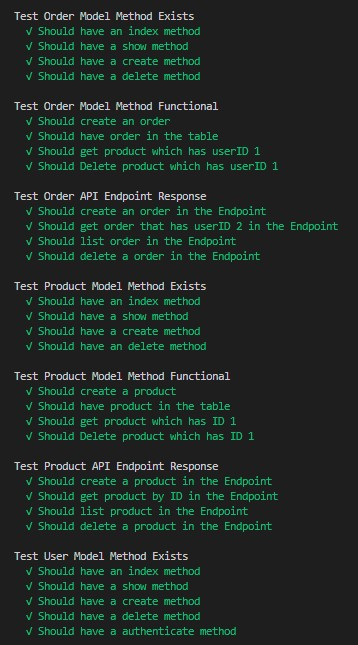
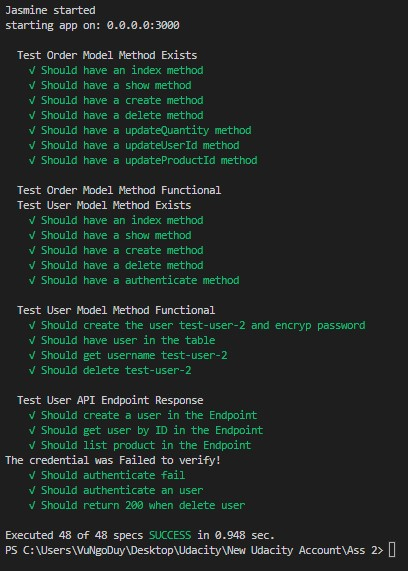
Update Jamine Test Case

Changed region(s): [[0.0, 0.0, 0.9832, 1.0]]

diff --git a/dist/tests/orderSpec.js b/dist/tests/orderSpec.js
@@ -23,6 +23,13 @@ const orderTest_2 = {
     user_id: 2,
     product_id: '1'
 };
+const orderUpdate = {
+    id: 1,
+    quantity: 4,
+    status: '',
+    user_id: 2,
+    product_id: 2,
+};
 describe('Test Order Model Method Exists', () => {
     beforeAll(async () => {
         await products.create({
@@ -36,6 +43,23 @@ describe('Test Order Model Method Exists', () => {
             lastName: 'Duy Vu',
             password: '12312'
         });
+        // Test User and Product for Update Order function
+        let testUser_2 = await request.post('/users').send({
+            username: 'test-user-b',
+            firstName: 'Hoang',
+            lastName: 'Thuy Linh',
+            password: 'The Creeking'
+        });
+        let testProduct = await products.create({
+            name: "Nokia",
+            price: 4000,
+            category: "Electronic",
+        });
+    });
+    afterAll(async () => {
+        await request
+            .delete('/users/delete/2')
+            .set({ Authorization: JSON.parse(testUser.text).token });
     });
     // Test index function exist
     it('Should have an index method', () => {
@@ -53,6 +77,7 @@ describe('Test Order Model Method Exists', () => {
     it('Should have a delete method', () => {
         expect(order.delete).toBeDefined();
     });
+    //  Update Order  // 
     // Test update order quantity function exist
     it('Should have a updateQuantity method', () => {
         expect(order.updateQuantity).toBeDefined();
@@ -80,6 +105,21 @@ describe('Test Order Model Method Functional', () => {
         const result = await order.show(1);
         expect(result.user_id).toEqual(orderTest_1.user_id);
     });
+    it('Should Add 4 to the order which has quality 1', async () => {
+        await order.updateQuantity(orderUpdate.id, orderUpdate.quantity);
+        const check = await order.show(1);
+        expect(check.quantity).toEqual(5);
+    });
+    it('Should Change userId of the order', async () => {
+        await order.updateUserId(orderUpdate.id, orderUpdate.user_id);
+        const check = await order.show(2);
+        expect(check.user_id).toEqual('2');
+    });
+    it('Should Change productId of the order', async () => {
+        await order.updateProductId(orderUpdate.id, orderUpdate.user_id);
+        const check = await order.show(2);
+        expect(check.product_id).toEqual('2');
+    });
     it('Should Delete product which has userID 1', async () => {
         await order.delete(1);
         const result = await order.show(1);
@@ -94,6 +134,17 @@ describe('Test Order API Endpoint Response', () => {
             firstName: 'Joe',
             lastName: 'Rogan',
             password: 'Elon Mush'
+        });
+        let testUser_2 = await request.post('/users').send({
+            username: 'test-user-c',
+            firstName: 'Johnny',
+            lastName: 'Harris',
+            password: 'Energy Crisis'
+        });
+        let testProduct = await products.create({
+            name: "Iphone",
+            price: 24000,
+            category: "Electronic",
         });
     });
     // Test Create New Order
@@ -110,8 +161,8 @@ describe('Test Order API Endpoint Response', () => {
             .get('/orders/2')
             .set({ Authorization: JSON.parse(testUser.text).token });
         const result = JSON.parse(response.text);
-        expect(result.quantity).toEqual(4);
-        expect(result.status).toEqual('Out of Stock');
+        expect(result.quantity).toEqual(5);
+        expect(result.status).toEqual('Sold');
         expect(result.user_id).toEqual('2');
     });
     // Test Get All Orders
@@ -121,6 +172,42 @@ describe('Test Order API Endpoint Response', () => {
             .set({ Authorization: JSON.parse(testUser.text).token });
         const result = JSON.parse(response.text);
         expect(result.length).toBeTruthy();
+    });
+    // Test Update Order Quantity
+    it('Should Update order quantity in the Endpoint', async () => {
+        await request
+            .post('/orders/update/quantity/')
+            .send(orderUpdate)
+            .set({ Authorization: JSON.parse(testUser.text).token });
+        const response = await request
+            .get('/orders/2')
+            .set({ Authorization: JSON.parse(testUser.text).token });
+        const result = JSON.parse(response.text);
+        expect(result.quantity).toEqual(4);
+    });
+    // Test Update Order UserId
+    it('Should Update userId of the order in the Endpoint', async () => {
+        await request
+            .post('/orders/update/userId/')
+            .send(orderUpdate)
+            .set({ Authorization: JSON.parse(testUser.text).token });
+        const response = await request
+            .get('/orders/2')
+            .set({ Authorization: JSON.parse(testUser.text).token });
+        const result = JSON.parse(response.text);
+        expect(result.user_id).toEqual('2');
+    });
+    // Test Update Order ProductId
+    it('Should Update productId of the order in the Endpoint', async () => {
+        await request
+            .post('/orders/update/productId/')
+            .send(orderUpdate)
+            .set({ Authorization: JSON.parse(testUser.text).token });
+        const response = await request
+            .get('/orders/2')
+            .set({ Authorization: JSON.parse(testUser.text).token });
+        const result = JSON.parse(response.text);
+        expect(result.product_id).toEqual('1');
     });
     // Test Delete Order by Id
     it('Should delete a order in the Endpoint', async () => {

diff --git a/src/tests/orderSpec.ts b/src/tests/orderSpec.ts
@@ -1,4 +1,4 @@
-import { Order, OrderStore } from '../models/orders';
+import { Order, OrderUpdate, OrderStore } from '../models/orders';
 import { ProductStore } from '../models/products';
 import supertest from 'supertest';
 import app from '../server';
@@ -22,6 +22,15 @@ const orderTest_2: Order = {
   product_id: '1'
 };
 
+const orderUpdate: OrderUpdate = {
+  id: 1,
+  quantity: 4,
+  status: '',
+  user_id: 2,
+  product_id: 2,
+};
+
+
 describe('Test Order Model Method Exists', () => {
   beforeAll(async () => {
     await products.create({
@@ -36,6 +45,26 @@ describe('Test Order Model Method Exists', () => {
       lastName: 'Duy Vu',
       password: '12312'
     });
+
+    // Test User and Product for Update Order function
+    let testUser_2 = await request.post('/users').send({
+      username: 'test-user-b',
+      firstName: 'Hoang',
+      lastName: 'Thuy Linh',
+      password: 'The Creeking'
+    });
+
+    let testProduct = await products.create({
+      name: "Nokia",
+      price: 4000,
+      category: "Electronic",
+    });
+  });
+
+  afterAll(async () => {
+    await request
+    .delete('/users/delete/2')
+    .set({ Authorization: JSON.parse(testUser.text).token });
   });
 
   // Test index function exist
@@ -58,6 +87,7 @@ describe('Test Order Model Method Exists', () => {
     expect(order.delete).toBeDefined();
   });
 
+  //  Update Order  // 
   // Test update order quantity function exist
   it('Should have a updateQuantity method', () => {
     expect(order.updateQuantity).toBeDefined();
@@ -91,6 +121,25 @@ describe('Test Order Model Method Functional', () => {
     expect(result.user_id).toEqual(orderTest_1.user_id);
   });
 
+
+  it('Should Add 4 to the order which has quality 1', async () => {
+    await order.updateQuantity(orderUpdate.id, orderUpdate.quantity);
+    const check = await order.show(1);
+    expect(check.quantity).toEqual(5);
+  });
+
+  it('Should Change userId of the order', async () => {
+    await order.updateUserId(orderUpdate.id, orderUpdate.user_id);
+    const check = await order.show(2);
+    expect(check.user_id).toEqual('2');
+  });
+
+  it('Should Change productId of the order', async () => {
+    await order.updateProductId(orderUpdate.id, orderUpdate.user_id);
+    const check = await order.show(2);
+    expect(check.product_id).toEqual('2');
+  });
+
   it('Should Delete product which has userID 1', async () => {
     await order.delete(1);
     const result = await order.show(1);;
@@ -105,6 +154,19 @@ describe('Test Order API Endpoint Response', () => {
       firstName: 'Joe',
       lastName: 'Rogan',
       password: 'Elon Mush'
+    });
+
+    let testUser_2 = await request.post('/users').send({
+      username: 'test-user-c',
+      firstName: 'Johnny',
+      lastName: 'Harris',
+      password: 'Energy Crisis'
+    });
+
+    let testProduct = await products.create({
+      name: "Iphone",
+      price: 24000,
+      category: "Electronic",
     });
   });
 
@@ -123,8 +185,8 @@ describe('Test Order API Endpoint Response', () => {
       .get('/orders/2')
       .set({ Authorization: JSON.parse(testUser.text).token });
     const result = JSON.parse(response.text);
-    expect(result.quantity).toEqual(4);
-    expect(result.status).toEqual('Out of Stock');
+    expect(result.quantity).toEqual(5);
+    expect(result.status).toEqual('Sold');
     expect(result.user_id).toEqual('2');
   });
 
@@ -136,6 +198,53 @@ describe('Test Order API Endpoint Response', () => {
     const result = JSON.parse(response.text);
     expect(result.length).toBeTruthy();
   });
+
+
+  // Test Update Order Quantity
+  it('Should Update order quantity in the Endpoint', async () => {
+      await request
+        .post('/orders/update/quantity/')
+        .send(orderUpdate)
+        .set({ Authorization: JSON.parse(testUser.text).token });
+
+
+      const response = await request
+        .get('/orders/2')
+        .set({ Authorization: JSON.parse(testUser.text).token });
+      const result = JSON.parse(response.text);
+      expect(result.quantity).toEqual(4);
+  });
+
+
+  // Test Update Order UserId
+  it('Should Update userId of the order in the Endpoint', async () => {
+      await request
+        .post('/orders/update/userId/')
+        .send(orderUpdate)
+        .set({ Authorization: JSON.parse(testUser.text).token });
+
+
+      const response = await request
+        .get('/orders/2')
+        .set({ Authorization: JSON.parse(testUser.text).token });
+      const result = JSON.parse(response.text);
+      expect(result.user_id).toEqual('2');
+  });
+
+  // Test Update Order ProductId
+  it('Should Update productId of the order in the Endpoint', async () => {
+    await request
+      .post('/orders/update/productId/')
+      .send(orderUpdate)
+      .set({ Authorization: JSON.parse(testUser.text).token });
+
+
+    const response = await request
+      .get('/orders/2')
+      .set({ Authorization: JSON.parse(testUser.text).token });
+    const result = JSON.parse(response.text);
+    expect(result.product_id).toEqual('1');
+});
 
   // Test Delete Order by Id
   it('Should delete a order in the Endpoint', async () => {

diff --git a/dist/tests/productSpec.js b/dist/tests/productSpec.js
@@ -10,13 +10,13 @@ const request = (0, supertest_1.default)(server_1.default);
 const product = new products_1.ProductStore();
 let testUser;
 const productTest_1 = {
-    name: "Samsung Galaxy",
-    price: 12000,
+    name: "Nokia",
+    price: 8000,
     category: "Electronic",
 };
 const productTest_2 = {
-    name: "Iphone",
-    price: 24000,
+    name: "Samsung Galaxy",
+    price: 12000,
     category: "Electronic",
 };
 describe('Test Product Model Method Exists', () => {
@@ -58,10 +58,10 @@ describe('Test Product Model Method Functional', () => {
         const result = await product.show(2);
         expect(result?.name).toEqual(productTest_1.name);
     });
-    it('Should Delete product which has ID 1', async () => {
-        product.delete(2);
+    it('Should Delete product which has ID 4', async () => {
+        product.delete(4);
         const result = await product.index();
-        expect(result.length).toEqual(1);
+        expect(result.length).toEqual(3);
     });
 });
 describe('Test Product API Endpoint Response', () => {

diff --git a/src/tests/productSpec.ts b/src/tests/productSpec.ts
@@ -7,14 +7,14 @@ const product = new ProductStore();
 let testUser: { text: string };
 
 const productTest_1: Product = {
-  name: "Samsung Galaxy",
-  price: 12000,
+  name: "Nokia",
+  price: 8000,
   category: "Electronic",
 };
 
 const productTest_2: Product = {
-  name: "Iphone",
-  price: 24000,
+  name: "Samsung Galaxy",
+  price: 12000,
   category: "Electronic",
 };
 
@@ -65,10 +65,10 @@ describe('Test Product Model Method Exists', () => {
     expect(result?.name).toEqual(productTest_1.name);
   });
 
-  it('Should Delete product which has ID 1', async () => {
-    product.delete(2);
+  it('Should Delete product which has ID 4', async () => {
+    product.delete(4);
     const result = await product.index();
-    expect(result.length).toEqual(1);
+    expect(result.length).toEqual(3);
   });
 });
 

diff --git a/src/models/orders.ts b/src/models/orders.ts
@@ -8,6 +8,15 @@ export type Order = {
   product_id: number | string;
 };
 
+export type OrderUpdate = {
+  id: number | string;
+  quantity: number;
+  status: string;
+  user_id: number | string;
+  product_id: number | string;
+};
+
+
 export class OrderStore {
   // List all of the Orders
   async index(): Promise<Order[]> {

diff --git a/README.md b/README.md
@@ -107,3 +107,6 @@ The following diagram is the database Schema
 ![Authenticate](https://github.com/NgoDuyVu1993/Assignment-2/blob/main/img/Authenticate%20User.jpg)
 
 4. The APIs of Product and Order can be used similarly
+
+5. The APIs to update existing Orders
+![Update Orders](https://github.com/NgoDuyVu1993/Assignment-2/blob/main/img/Update%20Exist%20Order.jpg)
